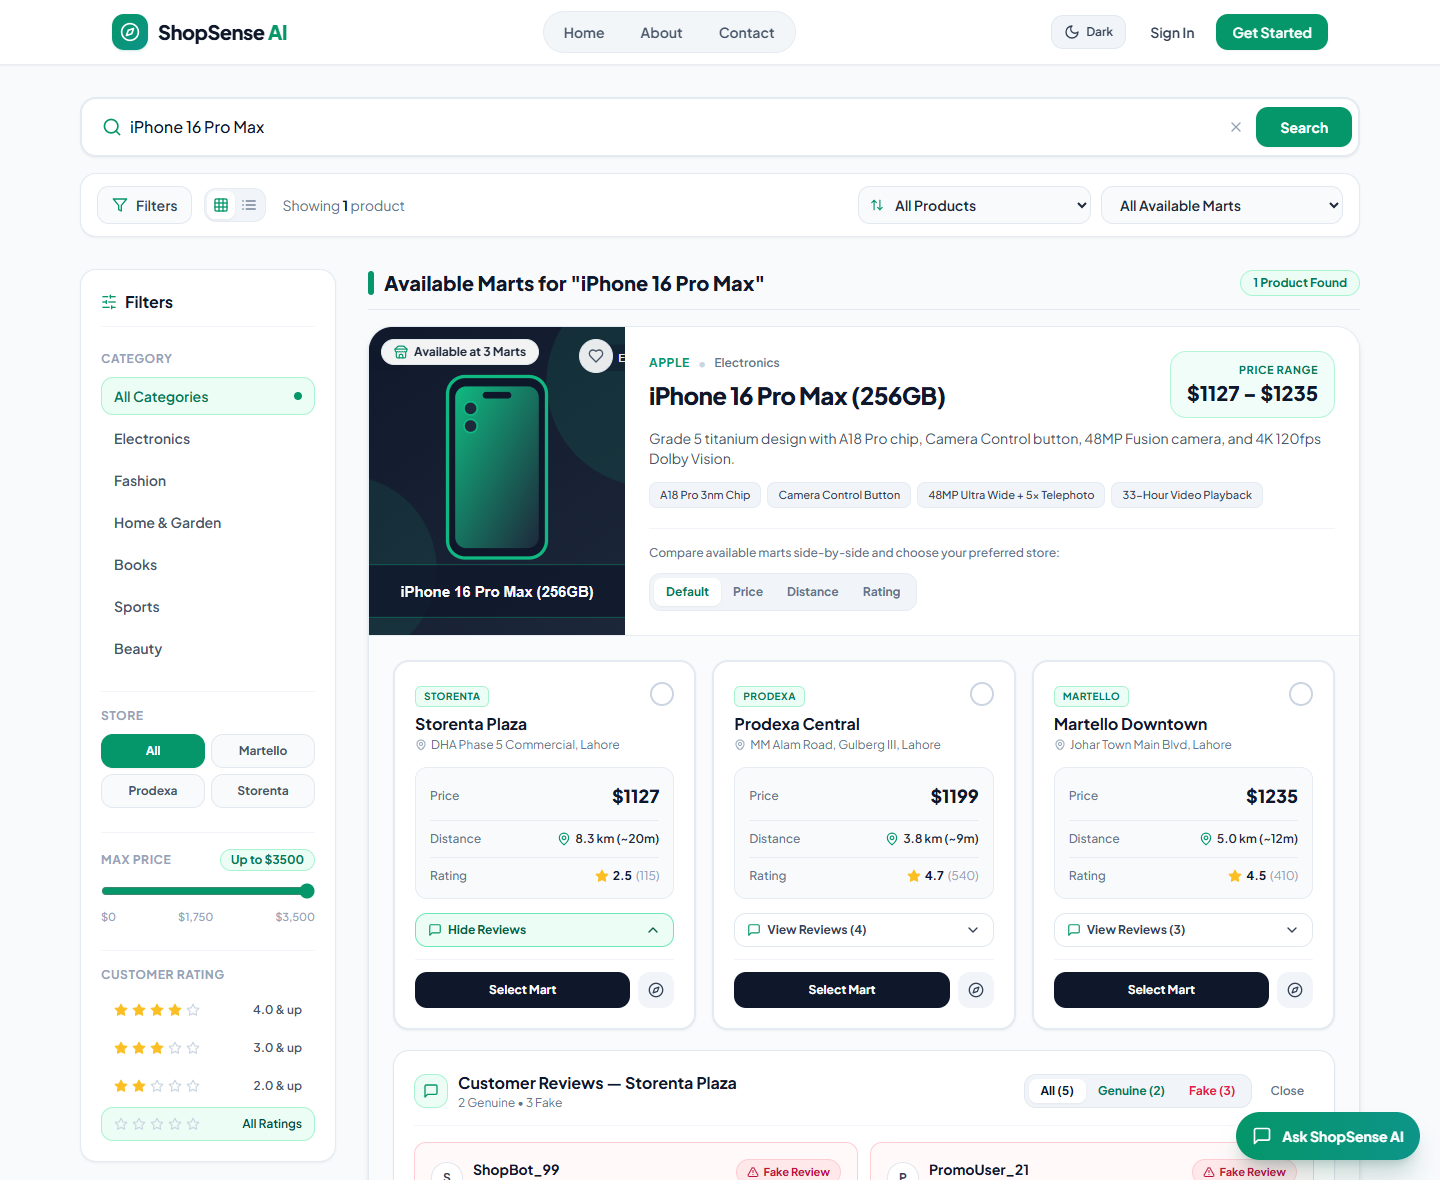
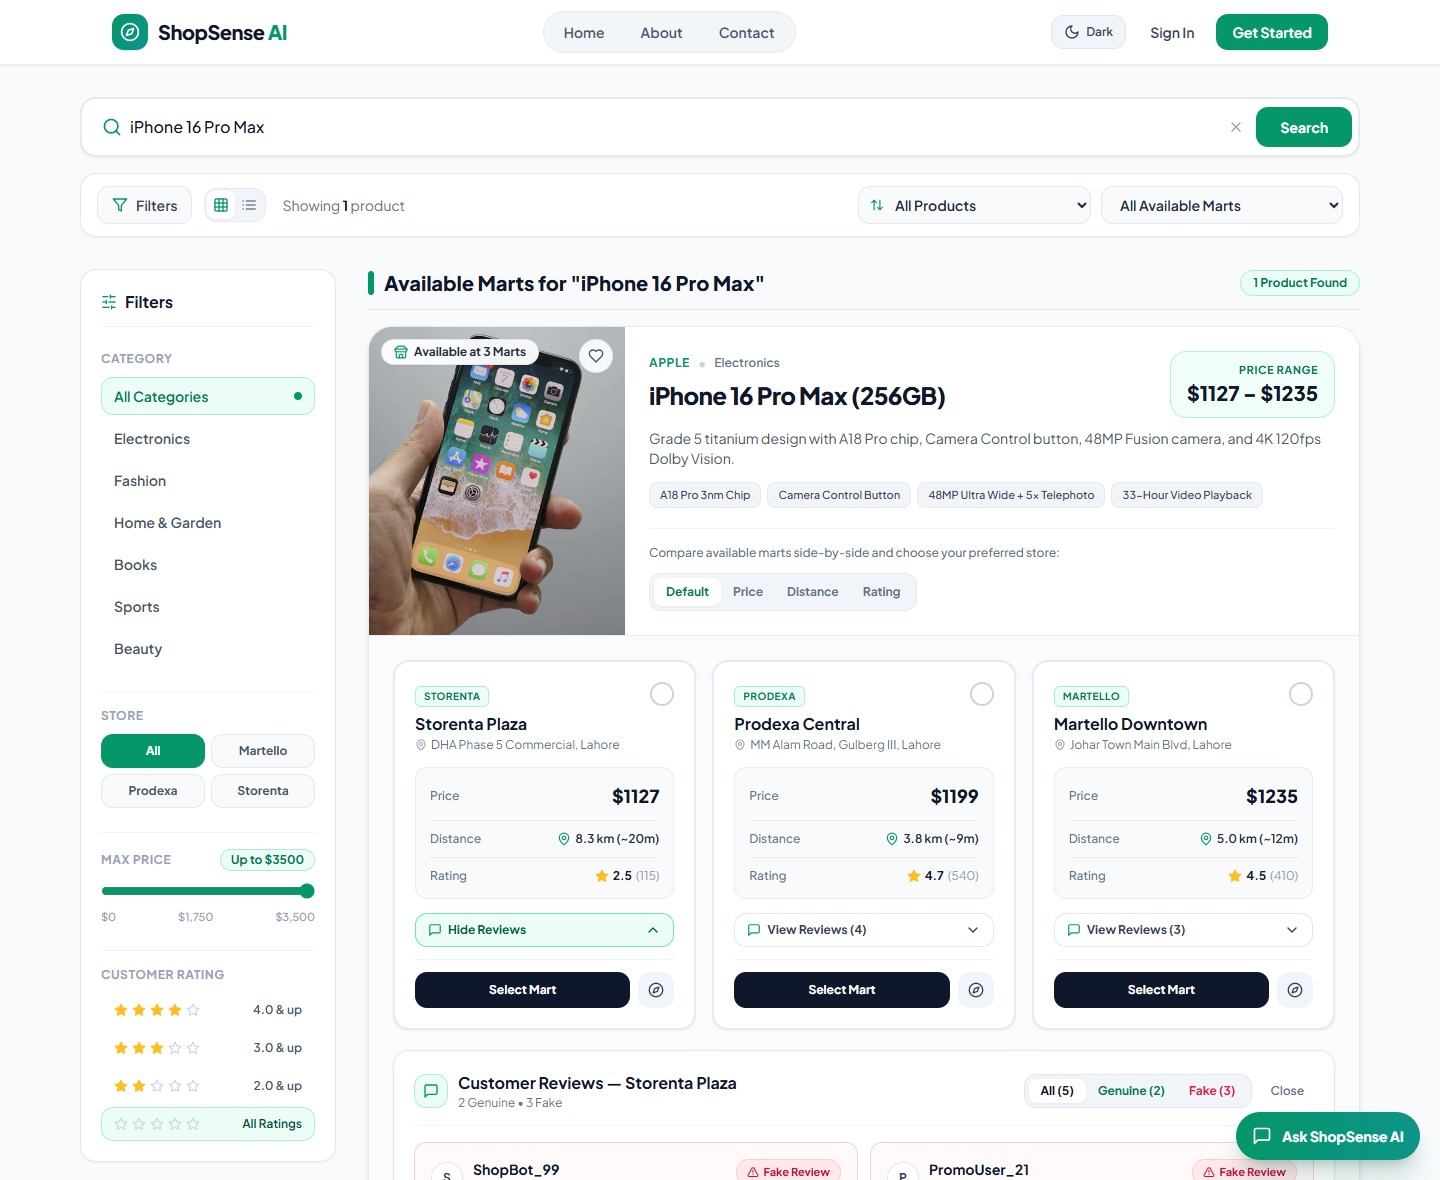
Update README and screenshots with real-life product images and RAG Vector DB documentation

Changed region(s): [[0.25, 0.2746, 0.4375, 0.5492]]

diff --git a/README.md b/README.md
@@ -1,12 +1,12 @@
 # ShopSense AI — Smart Multi-Mart Price, Distance & Review Comparison Platform
 
-**ShopSense AI** is a full-stack intelligent shopping comparison platform built with the **MERN Stack (MongoDB, Express.js, React + TypeScript, Node.js)** and **Hugging Face BERT (`@xenova/transformers`)**.
+**ShopSense AI** is a full-stack intelligent shopping comparison platform built with the **MERN Stack (MongoDB, Express.js, React + TypeScript, Node.js)**, **Hugging Face BERT (`@xenova/transformers`)**, and a **384-Dimensional RAG (Retrieval-Augmented Generation) + Vector Database Engine**.
 
 It empowers shoppers to search products by exact name or natural conversational phrases across local marts (**Martello Downtown**, **Martello West**, **Prodexa Central**, and **Storenta Plaza**) and compare:
-1. **Real-Time Mart Prices** (with original prices and discounts across 50+ products per mart)
+1. **Real-Time Mart Prices** (with original prices and discounts across 50+ products per mart and real-life product photography)
 2. **Live Distance (`km`) & Drive Time (`mins`)** from the customer's location using the Haversine formula
 3. **Customer Reviews Classified as `Genuine Review` or `Fake Review`** by a local **66M-parameter Hugging Face DistilBERT Transformer model** (`Xenova/distilbert-base-uncased-finetuned-sst-2-english`)
-4. **ShopSense AI Shopping Assistant Chatbot** for interactive product discovery, budget filtering, distance checks, and review trust advice
+4. **ShopSense AI Shopping Assistant Chatbot (RAG + Vector DB)** that embeds mart products into 384-dimensional vectors in MongoDB (`ProductVector`) and `vector_store.json`, retrieves top matching items via Cosine Similarity, and displays interactive comparison cards
 
 ---
 
@@ -22,7 +22,7 @@ ShopSense AI features a unified **Slate & Emerald** design system (`Plus Jakarta
 ---
 
 ### 2. Product Catalog Browsing (50+ Products per Mart Across 6 Categories)
-When customers browse the catalog without searching for a specific item, **ShopSense AI** displays clean, standard product cards with category-matched product studio illustrations, store filters, price range controls, and rating filters—without cluttering the screen with mart locations.
+When customers browse the catalog without searching for a specific item, **ShopSense AI** displays clean product cards with real-life product photography, store filters, price range controls, and rating filters—without cluttering the screen with mart locations.
 
 ![Browse Product Catalog](docs/screenshots/3-browse-catalog.png)
 
@@ -45,8 +45,8 @@ Customers can search using natural language sentences or multi-item requests (e.
 
 ---
 
-### 5. ShopSense AI Shopping Assistant Chatbot
-The floating **Ask ShopSense AI** assistant is accessible from the bottom-right corner of every page. Customers can ask for products, bundles, or budget constraints (e.g., `"I want Nike shoes and a shirt"` or `"Best laptop under $1500"`), view the **Best Genuine Pick** and **Fake Review Alerts** inside interactive chat cards, jump directly to full mart comparisons, or open Google Maps directions. When a customer says `"ok"` or `"thanks"`, the assistant asks *"Do you want something else?"* with **`Suggest Products`** and **`Leave`** buttons.
+### 5. ShopSense AI Shopping Assistant Chatbot (RAG + Vector Database)
+The floating **Ask ShopSense AI** assistant is accessible from the bottom-right corner of every page. Powered by a **384-Dimensional RAG + Vector Database pipeline**, it fetches product embeddings from the marts, computes Cosine Similarity against the customer's query (e.g., `"I want Nike shoes and a shirt"` or `"Best laptop under $1500"`), and renders clean interactive product cards showing the **Best Genuine Pick**, **Fake Review Alerts**, **`Compare Marts`**, and **`Directions`** links. When a customer says `"ok"` or `"thanks"`, the assistant asks *"Do you want something else?"* with **`Suggest Products`** and **`Leave`** buttons.
 
 ![ShopSense AI Shopping Assistant Chatbot](docs/screenshots/7-ai-chatbot.png)
 
@@ -67,7 +67,7 @@ The floating **Ask ShopSense AI** assistant is accessible from the bottom-right 
 |  - Calculates live GPS/Haversine distance (km) from user to each mart      |
 |  - Shows normal cards on browse; shows available marts on product search   |
 +---------------------------------------+------------------------------------+
-                                        | REST API (Axios + Local Fallback)
+                                        | REST API (Axios + Client Vector Fallback)
                                         v
 +----------------------------------------------------------------------------+
 |                     BACKEND (Node.js + Express + MongoDB)                  |
@@ -75,44 +75,40 @@ The floating **Ask ShopSense AI** assistant is accessible from the bottom-right 
 |  - GET  /api/marts                     -> 4 Marts with GPS coordinates     |
 |  - GET  /api/stores/:storeName/products-> Dedicated Mart APIs              |
 |  - POST /api/reviews/analyze           -> Live BERT Review Classifier API  |
-|  - POST /api/chat                      -> Conversational AI Assistant API  |
-+---------------------------------------+------------------------------------+
-                                        | ONNX Runtime (Local Inference)
-                                        v
-+----------------------------------------------------------------------------+
-|        HUGGING FACE BERT ENGINE (@xenova/transformers — DistilBERT)        |
-|  - Model: Xenova/distilbert-base-uncased-finetuned-sst-2-english           |
-|  - Tokenizes customer reviews with WordPiece & runs 6-layer Transformer    |
-|  - Combines BERT sentiment probability + rating-sentiment consistency      |
-|    + promotional spam detection to label reviews GENUINE or FAKE           |
-+----------------------------------------------------------------------------+
+|  - POST /api/chat                      -> RAG + Vector DB Chatbot API      |
+|  - GET  /api/products/vector-status    -> Vector DB telemetry & status     |
+|  - POST /api/auth/forgot-password      -> Gmail SMTP Password Reset Email  |
++-------------------+-----------------------------------+--------------------+
+                    |                                   |
+                    v                                   v
++---------------------------------------+ +----------------------------------+
+|   RAG + 384-D VECTOR DATABASE ENGINE  | | HUGGING FACE BERT ENGINE         |
+|  - Model: shopsense-hybrid-384d-v1    | | (@xenova/transformers DistilBERT)|
+|  - Indexes 80 mart products into      | | - Tokenizes customer reviews     |
+|    MongoDB ProductVector collection   | | - Classifies each review as      |
+|    and server/data/vector_store.json  | |   GENUINE or FAKE based on       |
+|  - Cosine Similarity + Hybrid Lexical | |   sentiment & spam patterns      |
++---------------------------------------+ +----------------------------------+
 ```
 
-### 1. Multi-Mart Catalog & Varied Stock Availability (50+ Products per Mart)
-The platform stocks **68 distinct products** across **6 categories** (*Electronics, Fashion, Home & Garden, Books, Sports, Beauty*) distributed across **4 marts in Lahore** so that every mart carries more than 50 products:
+### 1. Multi-Mart Catalog & Real-Life Product Photography (50+ Products per Mart)
+The platform stocks **80 distinct products** across **6 categories** (*Electronics, Fashion, Home & Garden, Books, Sports, Beauty*) distributed across **4 marts in Lahore** so that every mart carries more than 50 products:
 - **Martello Downtown** — *Johar Town Main Blvd, Lahore* (`31.4697, 74.2728`) — **56 products in stock**
 - **Martello West** — *Wapda Town Roundabout, Lahore* (`31.4312, 74.2644`) — **52 products in stock**
 - **Prodexa Central** — *MM Alam Road, Gulberg III, Lahore* (`31.5102, 74.3441`) — **60 products in stock**
 - **Storenta Plaza** — *DHA Phase 5 Commercial, Lahore* (`31.4625, 74.4085`) — **55 products in stock**
 
-Not every product is sold at every mart—some products are stocked at **1 mart**, some at **2 marts**, some at **3 marts**, and some at all **4 marts**. If a product is not available at a particular mart, that mart is automatically excluded from the comparison view. Every product image is generated by `createProductImage` (`productImage.helper.js`) to match its exact brand, category, and product description.
+Not every product is sold at every mart—some products are stocked at **1 mart**, some at **2 marts**, some at **3 marts**, and some at all **4 marts**. If a product is not available at a particular mart, that mart is automatically excluded from the comparison view. Every product is paired with a real-life high-resolution product photograph (`productImage.helper.js` and `src/data/products.ts`).
 
-### 2. Conversational & Multi-Item Natural Language Search
-Customers are not limited to searching by exact model titles. Both the search engine (`ProductSearch.tsx` and `product.service.js`) and the **ShopSense AI Chatbot** parse conversational sentences and multi-item requests such as:
-- `"I want Nike shoes"`
-- `"I want Nike shoes and a shirt"`
-- `"Best laptop under $1500"`
-- `"Show me a phone and headphones"`
+### 2. RAG (Retrieval-Augmented Generation) & 384-D Vector Database Chatbot
+Located in `SSA-server/server/services/vectorDb.service.js`, `SSA-server/server/models/productVector.model.js`, and `src/components/ChatBot.tsx`:
+1. **Mart Product Ingestion & Knowledge Chunking:** Fetches all 80 products and their mart offers across Martello Downtown, Martello West, Prodexa Central, and Storenta Plaza, constructing a structured RAG document for each product (including price range, available marts, best genuine mart pick, and fake review warnings).
+2. **384-Dimensional Dense Embeddings (`shopsense-hybrid-384d-v1`):** Encodes each product into a 384-dimensional L2-normalized vector combining 60 domain concept dimensions with 324 signed unigram, bigram, and character 3-gram random projection dimensions.
+3. **Vector Database Persistence:** Stores all 80 product vectors in the MongoDB `productvectors` collection (`ProductVector` model) and persists a local vector index snapshot at `SSA-server/server/data/vector_store.json`.
+4. **Cosine Similarity Retrieval (`POST /api/chat`):** Decomposes single or multi-item user queries (e.g., `"I want Nike shoes and a shirt"` or `"Best laptop under $1500"`), embeds each query into the 384-D vector space, computes Cosine Similarity (`cosineSimilarity(queryVec, docVec)`) combined with hybrid lexical verification and budget filtering, and returns the matching product cards directly inside the chat window.
+5. **Interactive Follow-Up Controls:** When a customer replies `"ok"`, `"thanks"`, or `"done"`, the assistant asks *"Do you want something else?"* and provides **`Suggest Products`** and **`Leave`** action buttons.
 
-The parser splits conjunctions (`and`, `or`, `with`, `plus`, `,`), removes conversational filler words, expands category synonyms, and matches item keywords against product identity fields using word-boundary regular expressions.
-
-### 3. ShopSense AI Shopping Assistant Chatbot
-Located in `src/components/ChatBot.tsx` (and backed by `POST /api/chat`):
-- **Concise Product & Budget Discovery:** Responds to product, bundle, and budget queries (`"under $1500"`) with concise single-line advice and interactive product cards.
-- **Price, Distance & Review Trust Advisor:** Displays the lowest price, distance in `km` from the user's location, the **Best Genuine Pick**, and a **Fake Review Alert** when the lowest-price mart has high fake review inflation.
-- **Interactive Follow-Up Controls:** When a customer replies `"ok"`, `"thanks"`, or `"done"`, the assistant asks *"Do you want something else?"* and provides **`Suggest Products`** and **`Leave`** action buttons.
-
-### 4. Real Hugging Face BERT Review Authenticity Classifier
+### 3. Real Hugging Face BERT Review Authenticity Classifier
 Located in `SSA-server/server/services/bert.service.js`:
 1. **Transformer Inference:** Uses `@xenova/transformers` to load `Xenova/distilbert-base-uncased-finetuned-sst-2-english` locally in Node.js (no external API key required).
 2. **Contextual Sentiment & Softmax Confidence:** Each review is tokenized and passed through the BERT model to extract `bertSentiment` (`POSITIVE` / `NEGATIVE`) and `bertSentimentScore` (`0.000` – `1.000`).
@@ -121,6 +117,12 @@ Located in `SSA-server/server/services/bert.service.js`:
    - **Promotional Bot Hyperbole:** Flags reviews with extreme BERT positive scores paired with generic spam phrases (`"100% original"`, `"buy now"`, `"A++++"`, `"best product ever"`), excessive exclamation marks, and zero concrete buyer details.
    - **Verified Buyer Experience:** Reviews mentioning concrete product/store details (factory seal, serial verification, warranty card, checkout wait time, evening parking) are labeled `GENUINE`.
 4. **Genuine Rating Adjustment:** Filters out `FAKE` reviews to compute each mart's true `genuineRating` so bot-inflated 5-star reviews cannot mislead shoppers.
+
+### 4. Gmail SMTP Password Reset Flow
+Located in `SSA-server/server/config/email.js`, `SSA-server/server/services/email.service.js`, and `src/components/ForgotPasswordModal.tsx`:
+- Customers can request a password reset link from the Sign In page (`POST /api/auth/forgot-password`).
+- `SSA-server` generates a signed 15-minute JWT reset token and dispatches an HTML password reset email via Gmail SMTP (`nodemailer`) directly to the customer's inbox.
+- Clicking the link opens `/reset-password/:token` (`ResetPasswordPage.tsx`), updating the password in MongoDB (`POST /api/auth/reset-password/:token`).
 
 ---
 
@@ -132,9 +134,12 @@ Located in `SSA-server/server/services/bert.service.js`:
 | `GET` | `/api/marts` | Fetch all 4 mart locations with GPS coordinates (`lat`, `lng`) |
 | `GET` | `/api/stores/:storeName/products` | Fetch products for a specific store (`martello`, `prodexa`, `storenta`) |
 | `POST` | `/api/reviews/analyze` | Run live Hugging Face BERT classification on custom review text(s) |
-| `POST` | `/api/chat` | Conversational AI Shopping Assistant endpoint (multi-item & budget search) |
+| `POST` | `/api/chat` | RAG + 384-D Vector Database Conversational AI Assistant endpoint |
+| `GET` | `/api/products/vector-status` | Inspect Vector DB indexing status, dimension (`384`), and total vectors (`80`) |
 | `POST` | `/api/auth/signup` | Register a new customer account |
 | `POST` | `/api/auth/login` | Authenticate customer and receive JWT token |
+| `POST` | `/api/auth/forgot-password` | Send a password reset link email to the customer via Gmail SMTP |
+| `POST` | `/api/auth/reset-password/:token` | Verify reset token and update customer password |
 | `GET` | `/api/auth/dashboard` | Fetch personalized user dashboard, wishlist, search history & recommendations |
 
 ### Example: Test Live BERT Classification (`POST /api/reviews/analyze`)
@@ -179,11 +184,13 @@ npm install
 Create a `.env` file in `SSA-server/server/.env`:
 ```env
 PORT=5000
-MONGODB_URI=mongodb://127.0.0.1:27017/shopsenseai
+MONGO_URI=mongodb://127.0.0.1:27017/shopsenseai
 JWT_SECRET=shopsense_super_secret_jwt_key_2025
-FRONTEND_URL=http://localhost:5173
+CLIENT_URL=http://localhost:5173
+EMAIL_USER=your_gmail@gmail.com
+EMAIL_PASS=your_google_app_password
 ```
-*(Note: If local MongoDB is not running, the backend automatically starts an in-memory MongoDB server and seeds all products across the 4 marts with BERT review analysis.)*
+*(Note: On startup, the backend automatically seeds all 80 products with real-life product photography, runs Hugging Face BERT review analysis, and indexes all 80 product embeddings into the 384-D Vector Database.)*
 
 ```bash
 npm start
@@ -202,6 +209,6 @@ Open **`http://localhost:5173`** in your browser.
 ## Tech Stack
 
 - **Frontend:** React 18, TypeScript, Vite, Tailwind CSS (Light & Dark Mode), Lucide Icons, React Router v6, Axios
-- **Backend:** Node.js, Express.js, Mongoose / MongoDB, JSON Web Tokens (JWT), bcrypt
-- **AI / NLP:** Hugging Face `@xenova/transformers` (`Xenova/distilbert-base-uncased-finetuned-sst-2-english` via ONNX Runtime) + Conversational Multi-Item Query Parser
+- **Backend:** Node.js, Express.js, Mongoose / MongoDB, Nodemailer (Gmail SMTP), JSON Web Tokens (JWT), bcrypt
+- **AI / NLP & Vector Search:** Hugging Face `@xenova/transformers` (`Xenova/distilbert-base-uncased-finetuned-sst-2-english` via ONNX Runtime) + 384-D RAG Vector Database (`ProductVector` in MongoDB & `vector_store.json`) with Cosine Similarity retrieval
 - **Geolocation:** Browser Geolocation API + Haversine Distance Formula (`km` & estimated drive time)
